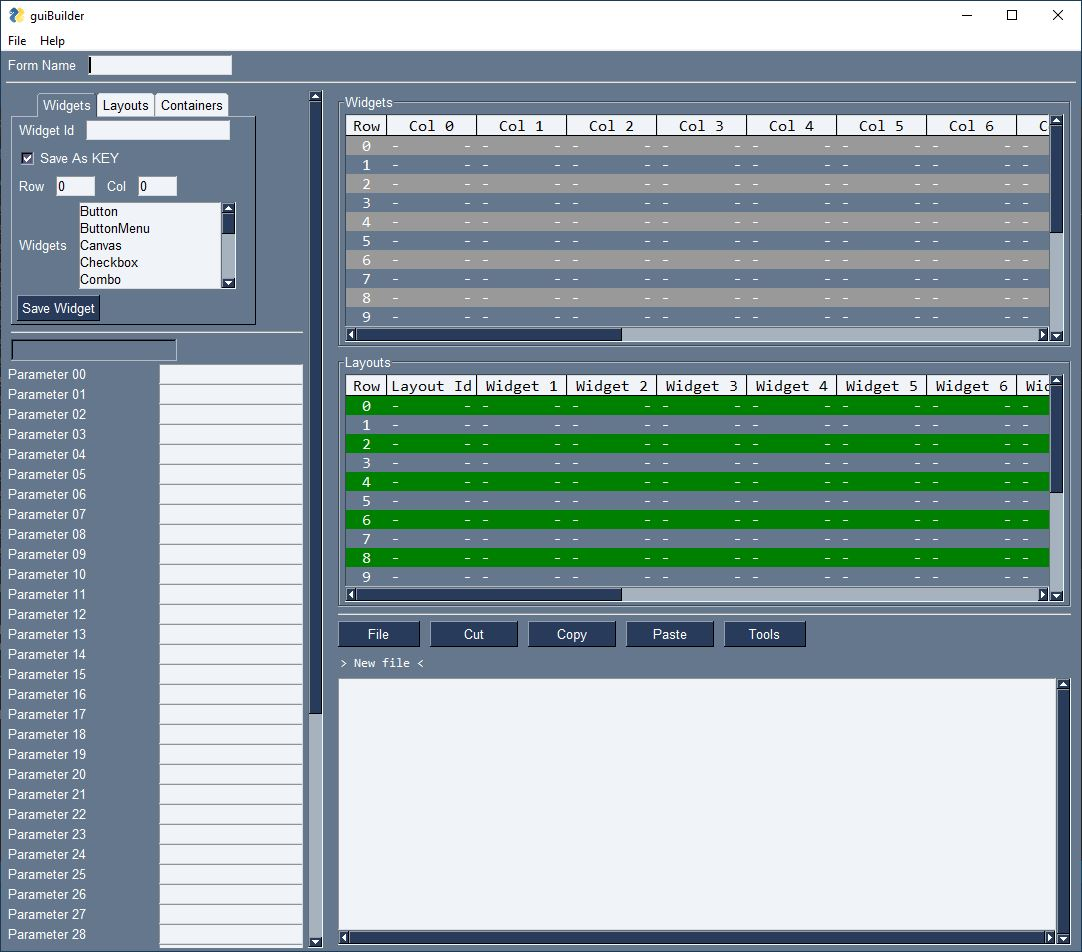
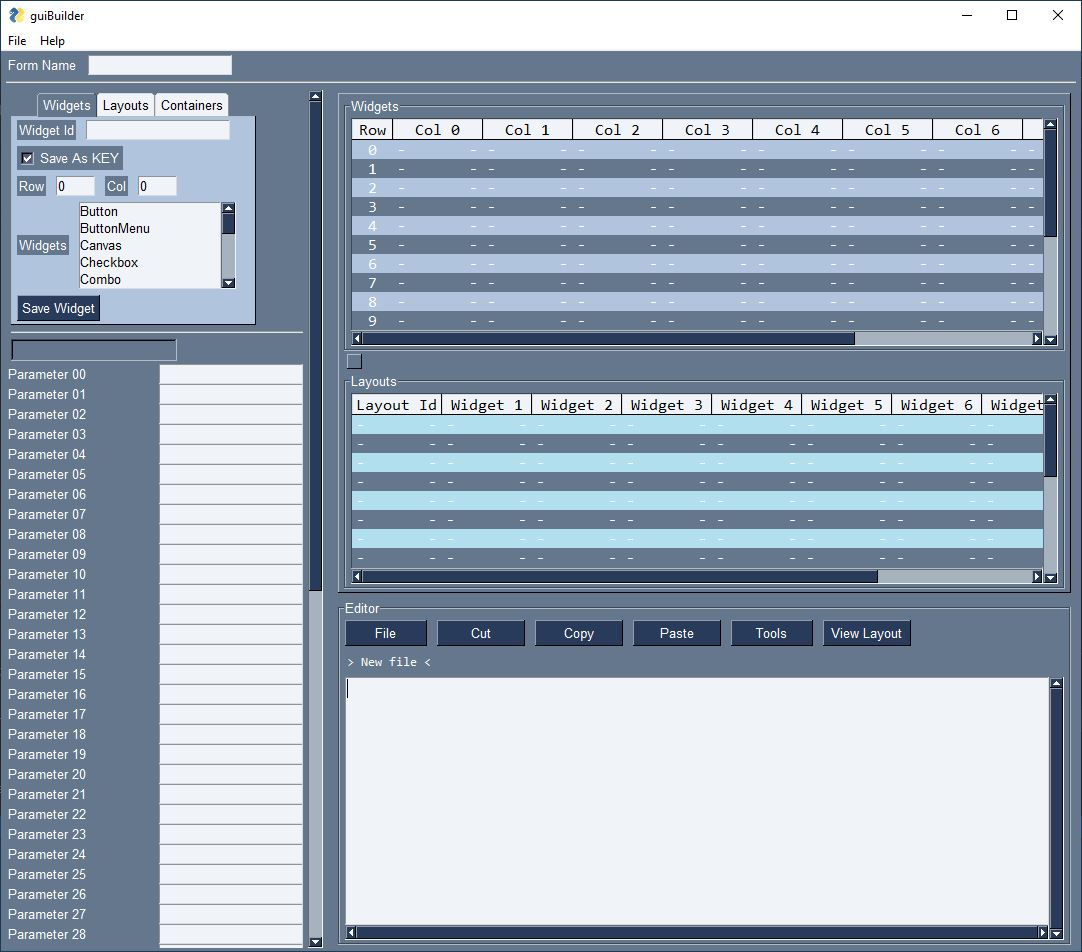
somewhat working version

diff --git a/guibuilder.py b/guibuilder.py
@@ -1,28 +1,42 @@
-"""
-How this works (or should work)
- 1) User defines widgets, placing on layout table via row / column vars
-   - do not allow overwrite 
-   - does table auto grow this extra cell in row??
+# 
+# To do:
 
-   Do we create "layout" variables at this point?       <---- at this step!
-    - write this data out to the editor 
-    - requires some sort of a template pysimplegui script to start from
-    - with "tags" for areas to insert text?
-        - means we need to parse tempalte before we start!
-        - or have the template sections hard coded into builder and output to editor as needed
- 3) test layout - write editor file out and execute via invoke to python interpreter 
- use pickle to save dictionaries???
-"""
-"""
-  A minimalist pysimplegui builder
-  
-  Editor based on :
-  
-  A minimalist Notepad built with the PySimpleGUI TKinter framework
-  Author:     Israel Dryer
-  Email:      israel.dryer@gmail.com
-  Modified:   2020-06-20
-"""
+# Need to be able to edit layouts 
+#     delete row
+#     delete widget
+#     add widget
+
+# Container logic needs to be added
+# possible use of pane element to allow 3 tables to fit widget table, layout table, container table
+
+# Add more parameter buttons ??
+
+# Simple users guide
+
+# How this works (or should work)
+#  1) User defines widgets, placing on layout table via row / column vars
+#    - do not allow overwrite 
+#    - does table auto grow this extra cell in row??
+
+#    Do we create "layout" variables at this point?       <---- at this step!
+#     - write this data out to the editor 
+#     - requires some sort of a template pysimplegui script to start from
+#     - with "tags" for areas to insert text?
+#         - means we need to parse tempalte before we start!
+#         - or have the template sections hard coded into builder and output to editor as needed
+#  3) test layout - write editor file out and execute via invoke to python interpreter 
+#  use pickle to save dictionaries???
+
+#   Multiline Editor code based on:
+#   A minimalist pysimplegui builder
+#  
+#   Editor based on :
+#  
+#   A minimalist Notepad built with the PySimpleGUI TKinter framework
+#   Author:     Israel Dryer
+#   Email:      israel.dryer@gmail.com
+#   Modified:   2020-06-20
+
 import PySimpleGUI as sg
 import subprocess
 import time
@@ -34,14 +48,14 @@ import guibuilder_widgets as gw
 sg.ChangeLookAndFeel('BrownBlue') # change style
 
 # name we use to create our test view for the layouts
-GUIBUILDER_TEST_FILE =  'guibuildertester.py'               # script to display layout defined in 'guibuildertestlayoutfile.py'
-GUIBUILDER_TEST_LAYOUT_FILE = 'guibuildertestlayoutfile.py' # file created by this guibuilder.py 
+GUIBUILDER_TEST_FILE =  'guibuilder_tester.py'               # script to display layout defined in 'guibuildertestlayoutfile.py'
+GUIBUILDER_TEST_LAYOUT_FILE = 'guibuilder_test_layout_file.py' # file created by this guibuilder.py 
 WIN_W = 90
 WIN_H = 25
-MAX_PROPERTIES = 45    # max number of properties we are setup to display
+MAX_PROPERTIES = 60    # max number of properties we are setup to display
 #
 # note column sizing is kind of a copout, still cannot get table to update size when additional columns are added.  
-TABLE_COL_COUNT = 20  # number of columns to create for layout table
+TABLE_COL_COUNT = 10  # number of columns to create for layout table
 TABLE_ROW_COUNT = 20  # and rows
 EMPTYCELL = '-       -'
 #
@@ -58,7 +72,7 @@ PARM_IDX  = 3  # List of parameters entered, calculated by comparing "default" w
 # layout table values, start as empty cell
 tablevalues = [[EMPTYCELL for col in range(TABLE_COL_COUNT)] for count in range(TABLE_ROW_COUNT)]
 layoutvalues = [[EMPTYCELL for col in range(TABLE_COL_COUNT)] for count in range(TABLE_ROW_COUNT)] 
-
+containervalues = [[EMPTYCELL for col in range(TABLE_COL_COUNT)] for count in range(TABLE_ROW_COUNT)] 
 
 file = None
 
@@ -68,6 +82,7 @@ subprocess_Popen = None
 # row currently selected on widget and layout tables
 selected_layout_row = 0
 selected_widget_row = 0
+selected_container_row = 0
 
 def parm_inspector(parm_list):
 # take the list of parameters for a widget and place them in the "object inspector"
@@ -316,7 +331,6 @@ def create_layout_code():
     insert_text('# guibuildertestlayoutfile')
     insert_text('import PySimpleGUI as sg')
     # place a timestamp in the editor
-    insert_text('timestamp = ' + str(time.time()))
     insert_text('#\n')
     layout_list = []
     for rc in range(len(layoutvalues)):
@@ -325,7 +339,8 @@ def create_layout_code():
         else:
             layoutid = layoutvalues[rc][0]
             layout_text = layoutid  + '= ['
-            for widx in range(1, len(layoutvalues)):
+
+            for widx in range(1, len(layoutvalues[rc])):
                 widget = layoutvalues[rc][widx]
                 if widget !=  EMPTYCELL:
                     winfo = Saved_widgets[widget]
@@ -391,6 +406,12 @@ def execute_py_file():
     global subprocess_Popen
 # execute the script written to the editor window
 # should probably create a temp file for this, but not today
+    # if we already kicked off the viewer, terminate it
+    sg.popup('View Layout')
+    if subprocess_Popen != None:
+        if subprocess_Popen.poll() == None:
+        #    subprocess_Popen.terminate()    # note this should work, but does not on Windows
+            subprocess.call(['taskkill', '/F', '/T', '/PID', str(subprocess_Popen.pid)])
       
     file = pathlib.Path(GUIBUILDER_TEST_LAYOUT_FILE) 
     file.write_text(values['_BODY_'])
@@ -400,25 +421,6 @@ def execute_py_file():
         subprocess_Popen = sg.execute_py_file(GUIBUILDER_TEST_FILE)
     else:
         sg.popup('Missing ' + GUIBUILDER_TEST_FILE)
-
-def refresh_file():
-    # refresh the GUIBUILDER_TEST_LAYOUT_FILE, requres a new time stamp
-    insert_text('timestamp = ' + str(time.time()))
-    window.refresh()
-
-    #file = pathlib.Path(GUIBUILDER_TEST_LAYOUT_FILE) 
-    #file.write_text(values['_BODY_'])
-    tkwidget = window['_BODY_']
-    text = tkwidget.Widget.get("1.0",'end-1c')
-    try:
-        fp = open(GUIBUILDER_TEST_LAYOUT_FILE,'w') 
-        fp.writelines(text)
-     #   fp.flush()
-        fp.close()
-    except OSError as e:
-        sg.popup(f"{type(e)}: {e}" + GUIBUILDER_TEST_LAYOUT_FILE)
-
-
 
 def cut_text():
     tkwidget = window['_BODY_']
@@ -440,10 +442,16 @@ def insert_text(text):
     tkwidget = window['_BODY_']
     tkwidget.Widget.insert('end', '\n'+text)
 
+
+########################################## main menu functions  ##################################
+def show_ctrl_codes():
+    sg.popup('CTRL+X - Cut\nCTRL+C - Copy\nCTRL+V - Paste\n')
+
+
 def about_me():
     sg.popup_no_wait('guibuilder 0.0')
 
-########################################## functions for saving and loading widget dictionary ##################################
+########################################## main menu functions for saving and loading widget dictionary ##################################
 def save_data(formname):
     try:
         with open(str(formname)+'.json','w') as fp:
@@ -501,7 +509,7 @@ container_tab = [
 ]
 
 entry_layout =[
-[sg.TabGroup([[sg.Tab('Widgets', widget_tab),sg.Tab('Layouts', layout_tab), sg.Tab('Containers', container_tab)]],key = '-TABS-',tab_location='top')], 
+[sg.TabGroup([[sg.Tab('Widgets', widget_tab,background_color='light steel blue',),sg.Tab('Layouts', layout_tab,background_color='LightBlue2'), sg.Tab('Containers', container_tab,background_color='Slategray1')]],key = '-TABS-',tab_location='top')], 
 [sg.HSep()],
 # parameter inspector list of labels and input boxes
 [sg.Text('',size=(20,1),relief = sg.RELIEF_SUNKEN,border_width = 2,key='-WIDGET_TXT-')],
@@ -512,9 +520,9 @@ entry_layout =[
 tableheadings = [f'Col {col}' for col in range(TABLE_COL_COUNT)]
 layout_heading = [f'Widget {col}' for col in range(TABLE_COL_COUNT)]
 layout_heading[0] = 'Layout Id'
-#
-menu_layout = [['File', ['Load', 'Save', '---', 'Exit']],
-              ['Help', ['About']]]
+container_heading = [f'Layout {col}' for col in range(TABLE_COL_COUNT)]
+container_heading[0] = 'Container Id'
+
 #
 editor_file_menu = ['Unused',['New', 'Open', 'Save', 'Save As', '---', 'Exit']]
 editor_tools_menu =['Unused', ['Insert']]
@@ -533,7 +541,7 @@ widget_table = [
                     display_row_numbers=True,
                     justification='center',
                     num_rows=10,
-                    alternating_row_color='grey60',
+                    alternating_row_color='light steel blue',
                     key='-TABLE-',
 #                    selected_row_colors='red on yellow',
                     enable_events=True,
@@ -554,7 +562,7 @@ layout_table = [
                     display_row_numbers=False,
                     justification='center',
                     num_rows=10,
-                    alternating_row_color='green',
+                    alternating_row_color='LightBlue2',
                     key='-LAYOUT_TABLE-',
 #                    selected_row_colors='red on yellow',
                     enable_events=True,
@@ -566,26 +574,56 @@ layout_table = [
                     tooltip='Layout Table')]
 ]
 
+container_table = [
+    [sg.Table(containervalues, headings=container_heading, max_col_width=25,
+                    auto_size_columns=False,
+                    font=('Consolas', 12),
+                    col_widths = 25, 
+                    # cols_justification=('left','center','right','c', 'l', 'bad'),       # Added on GitHub only as of June 2022
+                    display_row_numbers=False,
+                    justification='center',
+                    num_rows=10,
+                    alternating_row_color='Slategray1',
+                    key='-CONTAINER_TABLE-',
+#                    selected_row_colors='red on yellow',
+                    enable_events=True,
+                    expand_x=False,
+                    expand_y=False,
+                    vertical_scroll_only=False,
+                    hide_vertical_scroll = False,
+                    enable_click_events=True,           # Comment out to not enable header and other clicks
+                    tooltip='Container Table')]
+]
+
 editor_layout = [
 [
 sg.ButtonMenu('File',editor_file_menu,size=(10,1),key="-EFILE-"),
 sg.Button('Cut',size=(10,1)),sg.Button('Copy',size=(10,1)),
 sg.Button('Paste',size=(10,1)),
 sg.ButtonMenu('Tools',editor_tools_menu,size=(10,1),key="-ETOOLS-"),
-sg.Button('Exe Layout',size=(10,1),tooltip='Execute this layout in a new process'),
-sg.Button('Refresh',size=(10,1),tooltip='Refresh a layout currenlty being displayed'),
+sg.Button('View Layout',size=(10,1),tooltip='Execute this layout in a new process'),
 ],
 [sg.Text('> New file <', font=('Consolas', 10), size=(WIN_W, 1), key='_INFO_')],
 
 [sg.Multiline(font=('Consolas', 12), size=(132, WIN_H),horizontal_scroll = True, key='_BODY_')]  
-]  
+] 
+
+
+col1 =   sg.Column([[sg.Frame('Widgets', widget_table)]])
+col2 =   sg.Column([[sg.Frame('Layouts', layout_table)],[sg.Frame('Containers', container_table)]])
+#col3 =   sg.Column([[sg.Frame('Containers', container_table)]])
+
+pane_list = [col1,col2]
 
 table_editor_layout = [
 # [sg.TabGroup([[sg.Tab('Widgets', widget_table), sg.Tab('Containers', container_table)]],key = '-TABLE_TABS-',tab_location='top')],                     
-[sg.Frame('Widgets', widget_table)],
-[sg.Frame('Layouts', layout_table)],
+[sg.Pane(pane_list, background_color=None, size=(None,500), pad=None,orientation='vertical', show_handle=True, relief=sg.RELIEF_RAISED, handle_size=15, border_width=None, key=None, visible=True)],
 [sg.Frame('Editor', editor_layout)]
 ]
+
+# main menu 
+menu_layout = [['File', ['Load', 'Save', '---', 'Exit']],
+              ['Help', ['Ctrl Code','About']]]
 
 # guibuilder main form layout
 layout = [
@@ -646,8 +684,12 @@ while True:
         else:
             save_data(values['-FORM_NAME-'])
 
-    elif event in ('About',):
+    elif event == 'About':
         about_me()
+
+    elif event == 'Ctrl Code':
+        show_ctrl_codes()
+
 # Button Menu -FILE- Events
     elif event == '-EFILE-':
         if values['-EFILE-'] == 'New':
@@ -667,10 +709,8 @@ while True:
         copy_text()
     elif event == 'Paste':
         paste_text() 
-    elif event == 'Exe Layout':
+    elif event == 'View Layout':
         execute_py_file()
-    elif event == 'Refresh':
-        refresh_file()
 
 # Button Menu -TOOL- Events
     elif event == '-ETOOLS-':

diff --git a/guibuilder_tester.py b/guibuilder_tester.py
@@ -1,0 +1,23 @@
+# guibuiler_tester.py
+# script to excute (display) pysimplegui layout defined in guibuildertestlayoutfile
+import PySimpleGUI as sg
+
+import importlib
+
+try:
+    import guibuilder_test_layout_file
+except Exception as e:
+    sg.popup('Syntax Error in guibuilder_test_layout_file?', f"{type(e)}: {e}",location = (15,15)) 
+    quit()
+
+layout = guibuilder_test_layout_file.layout
+
+location = (10,10)
+window = sg.Window('Window Title', location=location).Layout(layout)
+
+while True:             # Event Loop
+    event, values = window.read()
+    if event is None or event == 'Exit':
+        break
+
+window.Close()
